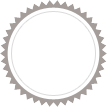
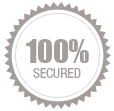
css-recipes-and-layouts/fix: 100secured

Changed region(s): [[0.0, 0.0, 1.0, 1.0], [0.2243, 0.3364, 0.785, 0.7009]]

diff --git a/css-recipes-and-layouts/css/styles.css b/css-recipes-and-layouts/css/styles.css
@@ -92,7 +92,9 @@ a {
 
   /*------------------------main------------------------*/
   main .stayUpdatet {
-    background-color: #ededed; }
+    background-color: #ededed;
+    height: 56px;
+    align-items: center; }
 
   /*------------------------footer------------------------*/
   .footContent .content .container {
@@ -128,7 +130,14 @@ a {
 
   /*------------------------main------------------------*/
   main .stayUpdatet {
-    background-color: #ededed; }
+    background-color: #ededed;
+    height: 56px;
+    align-items: center; }
+    main .stayUpdatet .wrapper.contacts .contacts.container {
+      height: 29px; }
+      main .stayUpdatet .wrapper.contacts .contacts.container .email.container p {
+        width: 80px;
+        margin-right: 5px; }
 
   /*------------------------footer------------------------*/
   nav .lowMenu {
@@ -283,8 +292,17 @@ header .slider {
 
 /*------------------------main------------------------*/
 main .stayUpdatet {
-  height: 56px;
-  margin-bottom: 40px; }
+  margin-bottom: 40px;
+  display: flex; }
+  main .stayUpdatet .wrapper.contacts {
+    width: 100%; }
+    main .stayUpdatet .wrapper.contacts .contacts.container {
+      align-items: center; }
+      main .stayUpdatet .wrapper.contacts .contacts.container .email p {
+        line-height: 1;
+        color: gray;
+        font-size: 1.17em;
+        align-items: center; }
 main .arts {
   /*justify-content: center;*/
   justify-content: space-around;
@@ -450,28 +468,6 @@ footer {
                 font-size: 20px; }
               footer .footContent .content .item .socials.container .social a:hover i {
                 color: mediumblue; }
-      footer .footContent .content .picture {
-        background-image: url(../img/100secured.png);
-        background-size: cover;
-        background-repeat: no-repeat;
-        position: relative;
-        width: 107px;
-        height: 107px;
-        flex-shrink: 0; }
-        footer .footContent .content .picture .pictureText {
-          position: absolute;
-          margin: 5px;
-          text-align: center;
-          top: 25px;
-          left: 14px;
-          line-height: 1;
-          color: #a59d9a; }
-          footer .footContent .content .picture .pictureText h4 {
-            font-size: 24pt;
-            font-family: Impact, Haettenschweiler, 'Arial Narrow Bold', sans-serif; }
-          footer .footContent .content .picture .pictureText p {
-            font-size: 13pt;
-            font-family: 'HelveticaNeueLTStd-Cn'; }
     footer .footContent section.container {
       flex-grow: 5; }
   footer .footMenu {

diff --git a/css-recipes-and-layouts/css/styles.scss b/css-recipes-and-layouts/css/styles.scss
@@ -216,11 +216,22 @@ header {
 
 main {
 
-    .stayUpdatet {
-        height: 56px;
+    .stayUpdatet {//background
         margin-bottom: 40px;
-        .wrapper.contacts {
-
+        display: flex;
+        .wrapper.contacts {//content-ceter
+            width: 100%;
+            .contacts.container {
+                align-items: center;
+                .email {
+                    p {
+                        line-height: 1;
+                        color: gray;
+                        font-size: 1.17em;
+                        align-items: center;
+                    }
+                }
+            }
         }
     }
 
@@ -427,32 +438,6 @@ footer {
                                 color: $activeColor;
                             }
                         }
-                    }
-                }
-            }
-            .picture {
-                background-image: url(../img/100secured.png);
-                background-size: cover;
-                background-repeat: no-repeat;
-                position: relative;
-                width: 107px;
-                height: 107px;
-                flex-shrink: 0;
-                .pictureText {
-                    position: absolute;
-                    margin: 5px;
-                    text-align: center;
-                    top:25px;
-                    left: 14px;
-                    line-height: 1;
-                    color: $pictureTextColor;
-                    h4 {
-                        font-size: 24pt;
-                        font-family: Impact, Haettenschweiler, 'Arial Narrow Bold', sans-serif;
-                    }
-                    p {
-                        font-size: 13pt;
-                        font-family: 'HelveticaNeueLTStd-Cn';
                     }
                 }
             }

diff --git a/css-recipes-and-layouts/index.html b/css-recipes-and-layouts/index.html
@@ -106,8 +106,8 @@
                         <section class="email container">
                             <p>Stay updated</p>
                             <form class="yourEmail" action="index.html" method="post">
-                                <input type="text" name="" value="">
-                                <input type="button" name="" value="">
+                                <input type="email" name="yourEmail" value="" required="required" placeholder="Your email address">
+                                <input type="submit" name="Submit" value="+">
                             </form>
                         </section>
                         <section class="socials container">
@@ -314,10 +314,7 @@
                             </article>
                         </section>
                         <div class="picture">
-                            <div class="pictureText">
-                                <h4>100%</h4><!--
-                                --><p>secured</p>
-                            </div>
+                            <img src="./img/100secured.png" alt="">
                         </div>
                     </div>
                 </div>

diff --git a/css-recipes-and-layouts/css/_original.scss b/css-recipes-and-layouts/css/_original.scss
@@ -37,6 +37,17 @@
 /*------------------------main------------------------*/
 main .stayUpdatet {
     background-color: $stayUpdateBackgroundColor;
+    height: 56px;
+    align-items: center;
+    .wrapper.contacts {
+        .contacts.container {
+            height: 29px;
+            .email.container p{
+                width: 80px;
+                margin-right: 5px;
+            }
+        }
+    }
 }
 
 

diff --git a/css-recipes-and-layouts/css/_medium.scss b/css-recipes-and-layouts/css/_medium.scss
@@ -46,6 +46,8 @@ header {
 /*------------------------main------------------------*/
 main .stayUpdatet {
     background-color: $stayUpdateBackgroundColor;
+    height: 56px;
+    align-items: center;
 }
 
 
